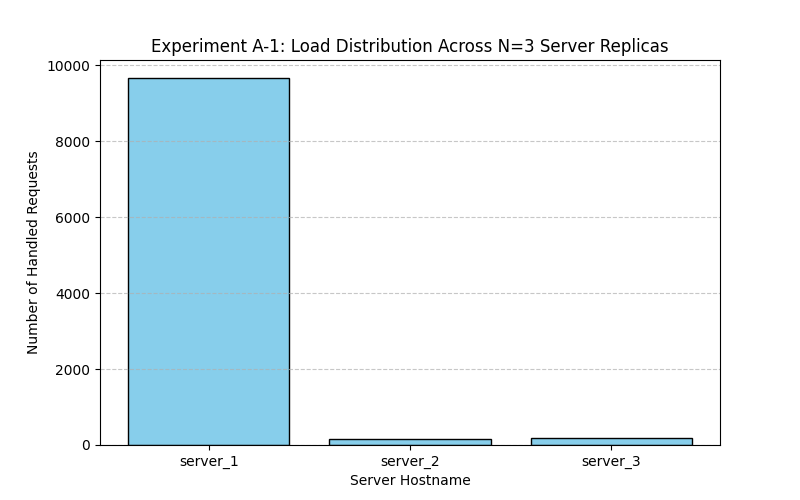
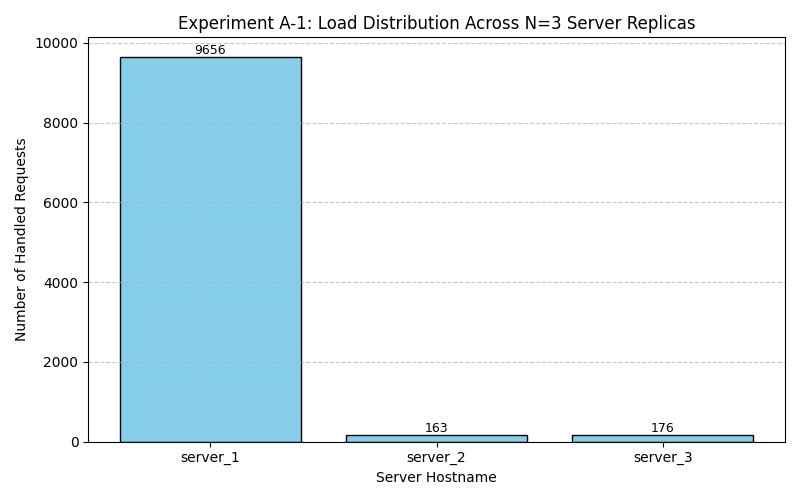
feat(task4): annotate A1 bars with exact per-server request counts

diff --git a/analysis.py b/analysis.py
@@ -9,6 +9,29 @@ import matplotlib.pyplot as plt
 LB_URL = "http://localhost:5000"
 
 
+def _wait_for_replicas(expected_n, retries=20, delay=1.0):
+    """Wait until /rep reports the expected replica count."""
+    for _ in range(retries):
+        try:
+            status_res = requests.get(f"{LB_URL}/rep", timeout=3).json()
+            replicas = status_res["message"]["replicas"]
+            if len(replicas) == expected_n:
+                return True
+        except Exception:
+            pass
+        time.sleep(delay)
+    return False
+
+
+def _warm_up_requests(count=50):
+    """Send a few warm-up requests to allow freshly started replicas to stabilize."""
+    for _ in range(count):
+        try:
+            requests.get(f"{LB_URL}/home", timeout=2)
+        except Exception:
+            pass
+
+
 async def fetch_home(session, request_id):
     """Sends an async request through the load balancer."""
     headers = {"X-Request-ID": str(request_id)}
@@ -75,20 +98,36 @@ def experiment_a1():
 
     # Render Bar Graph
     plt.figure(figsize=(8, 5))
-    plt.bar(counts.keys(), counts.values(), color='skyblue', edgecolor='black')
+    labels = list(counts.keys())
+    values = [counts[k] for k in labels]
+    bars = plt.bar(labels, values, color='skyblue', edgecolor='black')
     plt.title("Experiment A-1: Load Distribution Across N=3 Server Replicas")
     plt.xlabel("Server Hostname")
     plt.ylabel("Number of Handled Requests")
     plt.grid(axis='y', linestyle='--', alpha=0.7)
+
+    # Annotate each bar with the exact handled request count.
+    for bar, value in zip(bars, values):
+        plt.text(
+            bar.get_x() + bar.get_width() / 2,
+            bar.get_height(),
+            f"{value}",
+            ha='center',
+            va='bottom',
+            fontsize=9,
+        )
+
+    plt.tight_layout()
     plt.savefig("experiment_a1_bar.png")
     plt.close()
     print("Graph saved successfully as 'experiment_a1_bar.png'")
 
 
-def experiment_a2():
+def experiment_a2(total_requests=5000, concurrency=120):
     print("\n--- Running Experiment A-2 (Scaling N from 2 to 6) ---")
     n_values = [2, 3, 4, 5, 6]
     avg_loads = []
+    throughput_values = []
 
     for n in n_values:
         print(f"Testing cluster scale out configuration at N={n}...")
@@ -100,12 +139,30 @@ def experiment_a2():
 
             hostnames = [f"server_{i}" for i in range(1, n + 1)]
             requests.post(f"{LB_URL}/add", json={"n": n, "hostnames": hostnames})
+
+            if not _wait_for_replicas(n):
+                print(f"Cluster did not stabilize at N={n}; recording zero metrics for this point.")
+                avg_loads.append(0)
+                throughput_values.append(0)
+                continue
+
+            _warm_up_requests()
         except Exception as e:
             print(f"Error modifying cluster footprint: {e}")
+            avg_loads.append(0)
+            throughput_values.append(0)
             continue
 
         # Distribute standard traffic
-        results = asyncio.run(run_async_load(10000))
+        try:
+            start = time.time()
+            results = asyncio.run(run_async_load(total_requests, concurrency=concurrency))
+            elapsed = time.time() - start
+        except KeyboardInterrupt:
+            print(f"Load generation interrupted at N={n}; recording zero metrics for this point.")
+            avg_loads.append(0)
+            throughput_values.append(0)
+            continue
 
         counts = {}
         for server in results:
@@ -119,6 +176,8 @@ def experiment_a2():
         else:
             mean_load = 0
         avg_loads.append(mean_load)
+        throughput = actual_handled / elapsed if elapsed > 0 else 0
+        throughput_values.append(throughput)
         print(f"Total requests distributed successfully at N={n}: {actual_handled}. Average load: {mean_load}")
 
     # Render Line Graph
@@ -132,6 +191,18 @@ def experiment_a2():
     plt.savefig("experiment_a2_line.png")
     plt.close()
     print("Graph saved successfully as 'experiment_a2_line.png'")
+
+    # Render additional scalability visual: throughput vs N
+    plt.figure(figsize=(8, 5))
+    plt.plot(n_values, throughput_values, marker='s', color='teal', linewidth=2)
+    plt.title("Experiment A-2 (Additional): Throughput vs Cluster Scale")
+    plt.xlabel("Number of Server Instances (N)")
+    plt.ylabel("Successful Requests per Second")
+    plt.xticks(n_values)
+    plt.grid(True, linestyle='--', alpha=0.6)
+    plt.savefig("experiment_a2_throughput.png")
+    plt.close()
+    print("Additional graph saved successfully as 'experiment_a2_throughput.png'")
 
 
 def experiment_a3():